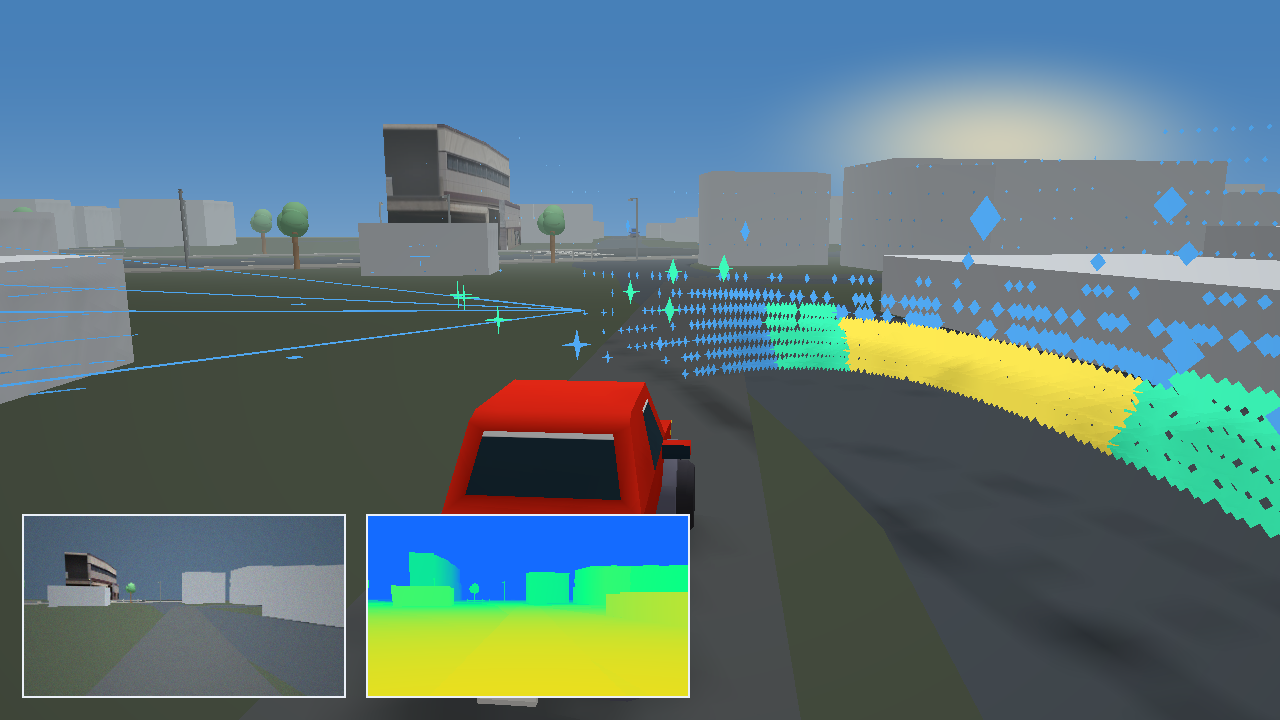
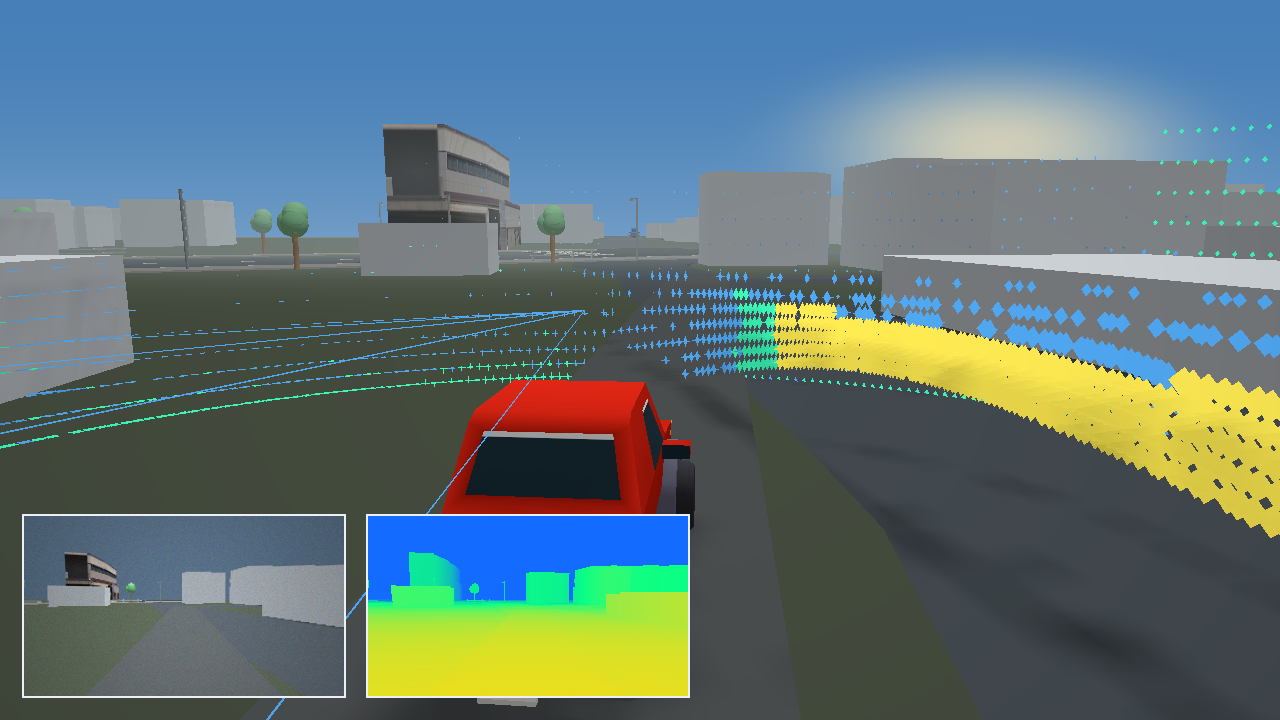
complete the lidar rings and promote the capture to the README hero
Add a ground-plane collider under the whole tile so the downward elevation
channels paint the signature concentric rings everywhere instead of a
partial crescent over road-only colliders, and match the atmosphere to the
rendered clear sunny day - no rain, no aerosol backscatter sprinkling
floating returns through visibly clear air. Retune the intensity color bins
to the new radiometric distribution and draw the sample beams from a
downward channel so they terminate on the nearby ground ring. Returns
climb from 285,718 to 546,615. The capture becomes the README lead image.

diff --git a/examples/46_plateau_drone_gif/main.rs b/examples/46_plateau_drone_gif/main.rs
@@ -1655,6 +1655,26 @@ fn capture_city_lidar_frames(
     reverse_vehicle_spawn_order: bool,
 ) -> CityLidarCapture {
     assign_city_lidar_materials(world);
+
+    // Ground plane under the whole tile. The imported road surfaces only cover the
+    // carriageway, so without this the downward elevation channels return nothing
+    // over grass and sidewalks and the signature concentric LiDAR rings appear as a
+    // partial crescent. Real ground reflects everywhere; grass is diffuse and dim.
+    let ground = spawn_named(world, "lidar_ground_plane");
+    world.entity_mut(ground).insert((
+        RigidBody {
+            body_type: RigidBodyType::Kinematic,
+            ..RigidBody::default()
+        },
+        Collider {
+            shape: ColliderShape::Cuboid {
+                half_extents_m: Vec3::new(400.0, 0.05, 400.0),
+            },
+            ..Collider::default()
+        },
+        LidarMaterial::new(0.14, 0.0, 0.95),
+        Transform3::from_translation_rotation(Vec3::new(0.0, -0.06, 0.0), Quat::IDENTITY),
+    ));
     let actor_count = traffic_frames
         .first()
         .map(Vec::len)
@@ -1821,19 +1841,23 @@ fn city_lidar_spec() -> LidarSpec {
         saturation_intensity: LIDAR_SATURATION_INTENSITY,
         bloom_gain: 0.06,
         bloom_column_radius: 2,
-        backscatter_probability_scale: 0.35,
+        backscatter_probability_scale: 0.0,
         minimum_intensity: 0.002,
         seed: 46_905,
+        // The rendered scene is a clear sunny day, so the atmosphere matches it: a
+        // trace of haze and dust, no precipitation, and no aerosol backscatter.
+        // Rain and backscatter are exercised by the rne_sensor unit tests; enabling
+        // them here would sprinkle floating returns through visibly clear air.
         atmosphere: LidarAtmosphere {
-            fog_extinction_per_m: 0.001,
-            rain_rate_mm_h: 1.5,
-            dust_density_mg_m3: 0.4,
+            fog_extinction_per_m: 0.000_2,
+            rain_rate_mm_h: 0.0,
+            dust_density_mg_m3: 0.2,
             snow_rate_mm_h: 0.0,
         },
         domain_randomization: LidarDomainRandomization {
-            fog_extinction_range_per_m: [0.0, 0.002],
-            rain_rate_range_mm_h: [0.0, 2.5],
-            dust_density_range_mg_m3: [0.0, 0.8],
+            fog_extinction_range_per_m: [0.0, 0.000_4],
+            rain_rate_range_mm_h: [0.0, 0.0],
+            dust_density_range_mg_m3: [0.0, 0.4],
             snow_rate_range_mm_h: [0.0, 0.0],
         },
         ..LidarSpec::default()
@@ -2219,17 +2243,18 @@ fn append_lidar_intensity_overlay(scene: &mut RenderScene, frame: &CityLidarFram
         DebugMeshBuilder::default(),
         DebugMeshBuilder::default(),
     ];
-    // Bin thresholds follow the radiometric scale: weak far returns, ordinary diffuse
-    // surfaces, and near-saturation retroreflective hits.
+    // Bin thresholds follow the radiometric scale of this scene: distant grazing
+    // ground returns are dim, the near ground rings and side walls sit in the middle,
+    // and close facades plus retroreflective plates carry the strong bin.
     for (point, intensity) in frame
         .cloud
         .points_m
         .iter()
         .zip(frame.cloud.intensities.iter().copied())
     {
-        let bin = if intensity < 0.05 {
+        let bin = if intensity < 0.02 {
             0
-        } else if intensity < 0.30 {
+        } else if intensity < 0.06 {
             1
         } else {
             2
@@ -2237,7 +2262,9 @@ fn append_lidar_intensity_overlay(scene: &mut RenderScene, frame: &CityLidarFram
         // A 16-channel cloud is dense, so markers stay small to keep returns legible.
         bins[bin].add_point_marker(*point, 0.11);
     }
-    let beam_channel = LIDAR_CHANNEL_COUNT / 2;
+    // A slightly downward channel (-7 deg) so the drawn beams terminate on the
+    // nearby ground ring instead of running to the horizon.
+    let beam_channel = LIDAR_CHANNEL_COUNT / 4;
     for (((point, ray_index), return_index), channel) in frame
         .cloud
         .points_m
@@ -3808,7 +3835,7 @@ mod tests {
             true,
         );
         assert_eq!(forward_lidar.stable_hash, reverse_lidar.stable_hash);
-        assert_eq!(forward_lidar.stable_hash, 7_688_105_174_862_316_538);
+        assert_eq!(forward_lidar.stable_hash, 17_799_227_134_853_352_305);
         assert_eq!(forward_lidar.total_returns, reverse_lidar.total_returns);
         assert_eq!(forward_lidar.multi_returns, reverse_lidar.multi_returns);
         assert_eq!(

diff --git a/README.md b/README.md
@@ -8,15 +8,24 @@ headless CI, and real wgpu rendering.
 
 <p align="center">
   <picture>
+    <source media="(prefers-reduced-motion: reduce)" srcset="docs/media/plateau-lidar.png">
+    <img src="docs/media/plateau-lidar.gif" alt="Physics-aware 16-channel LiDAR rings sweeping official PLATEAU Sanjo city traffic from a moving vehicle, with onboard camera color and depth insets" width="960">
+  </picture>
+  <br>
+  <sub>Physics-aware sensing over official PLATEAU Sanjo City data: a 16-channel spinning LiDAR paints its concentric elevation rings across ground, buildings, and 99 deterministic traffic vehicles — inverse-square radiometry, material response, multi-returns, and retroreflective saturation, 546,615 returns in one 12-second wgpu capture (stable hash <code>6321383548646989021</code>). The insets are the same vehicle's RGB-D camera with lens distortion, rolling shutter, auto exposure, and sensor noise. The mount rides a dynamic-bicycle chassis; everything replays bit-identically from one seed.</sub>
+</p>
+
+RNE is a Rust-based, robot-native, AI-native game engine for robotics simulation,
+embodied AI, synthetic sensor data, and policy evaluation.
+
+<p align="center">
+  <picture>
     <source media="(prefers-reduced-motion: reduce)" srcset="docs/media/rne-hero.png">
     <img src="docs/media/rne-hero.gif" alt="3D RNE mobile manipulator simulation navigating a house-like room while carrying a task object" width="960">
   </picture>
   <br>
   <sub>Real capture: the detailed <code>mm_mobile</code> URDF robot drives, grasps a physics cube with its two-finger gripper, carries it ~2.5&nbsp;m, and drops it on the tray — one deterministic wgpu run, no keyframes, no object teleports. (<a href="docs/media/rne-hero.json">how it's made</a> · <a href="docs/media/generate-hero.sh">regenerate</a>)</sub>
 </p>
-
-RNE is a Rust-based, robot-native, AI-native game engine for robotics simulation,
-embodied AI, synthetic sensor data, and policy evaluation.
 
 ## PLATEAU city tiles
 
@@ -77,14 +86,13 @@ deterministic from the same `WorldRandom` stream. The two insets are that sensor
 real output, not a clean render, and the depth ramp reuses the LiDAR intensity
 legend.
 
-<p align="center">
-  <picture>
-    <source media="(prefers-reduced-motion: reduce)" srcset="docs/media/plateau-lidar.png">
-    <img src="docs/media/plateau-lidar.gif" alt="Physics-aware LiDAR returns from a moving vehicle in official PLATEAU Sanjo traffic" width="960">
-  </picture>
-  <br>
-  <sub>Real 12-second/144-frame wgpu capture of 285,718 material-aware, incidence-aware, weather-attenuated LiDAR returns across 16 elevation channels (19,375 later returns, 514 saturated retroreflective returns; stable scan hash <code>1015973553409876591</code>) plus a vehicle-mounted RGB-D camera with lens distortion, rolling shutter, auto exposure and sensor noise (stable hash <code>10455576295794772416</code>). The sensors ride a dynamic-bicycle chassis chasing its kinematic traffic ghost (max deviation 0.19 m), while the other 99 deterministic vehicles keep the untouched traffic contract.</sub>
-</p>
+The capture is shown at the top of this page: 546,615 returns over 144 frames
+(63,009 later returns, 530 saturated retroreflective hits; stable scan hash
+<code>6321383548646989021</code>), with the onboard RGB-D camera composited as the
+two insets (stable hash <code>10455576295794772416</code>). The sensors ride a
+dynamic-bicycle chassis chasing its kinematic traffic ghost (max deviation
+0.19 m), while the other 99 deterministic vehicles keep the untouched traffic
+contract.
 
 ```bash
 cargo run -p rne_plateau_import -- path/to/tile.gml \

diff --git a/docs/LIDAR_SIMULATION.md b/docs/LIDAR_SIMULATION.md
@@ -190,7 +190,7 @@ cast from the interpolated pose of the moving host vehicle.
 The headless acceptance test captures twelve frames twice with opposite
 traffic-collider spawn order and requires:
 
-- stable hash `7688105174862316538`;
+- stable hash `17799227134853352305`;
 - identical point, multiple-return, and saturated-return counts;
 - aligned point attributes;
 - at least one transmitted later return;
@@ -204,9 +204,18 @@ multiple-return count, saturated-return count, mean intensity, scan duration,
 stable hash, traffic safety KPIs, and measured scan throughput. Its wgpu output
 uses three intensity color bands and writes `docs/media/plateau-lidar.gif` plus
 the reduced-motion `docs/media/plateau-lidar.png` poster. The committed
-144-frame capture contains 285,718 returns, including 19,375 later returns and
-514 saturated returns, with mean normalized intensity `0.097`, a per-scan
-duration of `0.0831 s`, and stable full-capture hash `1015973553409876591`.
+144-frame capture contains 546,615 returns, including 63,009 later returns and
+530 saturated returns, with mean normalized intensity `0.061`, a per-scan
+duration of `0.0831 s`, and stable full-capture hash `6321383548646989021`.
+
+The capture world adds a large ground-plane collider with a dim diffuse grass
+material under the whole tile: the imported road surfaces only cover the
+carriageway, and without ground everywhere the downward elevation channels
+return nothing over grass and sidewalks, leaving the signature concentric
+rings as a partial crescent. The atmosphere matches the rendered clear sunny
+day — trace haze and dust, no precipitation, no aerosol backscatter — so no
+returns float in visibly clear air; rain and backscatter remain covered by the
+`rne_sensor` unit tests.
 
 The mount rides a [dynamic-bicycle](VEHICLE_DYNAMICS.md) chassis rather than the
 kinematic traffic actor itself: the tracked vehicle's traffic trajectory becomes
